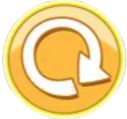
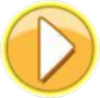
。。。

diff --git a/AngryToads/src/AngryToadsApplication/AngryToadsPanel.java b/AngryToads/src/AngryToadsApplication/AngryToadsPanel.java
@@ -28,9 +28,10 @@ class AngryToadsPanel extends JPanel {
     private ImageIcon pausebutton = new ImageIcon("src/AngryToadsImagePack/pause.png");
     private ImageIcon continueButton = new ImageIcon("src/AngryToadsImagePack/continue.png");
     private ImageIcon menuButton = new ImageIcon("src/AngryToadsImagePack/menu.png");
-    private ImageIcon restartbutton = new ImageIcon("src/AngryToadsImagePack/resume.png");
+    private ImageIcon restartbutton = new ImageIcon("src/AngryToadsImagePack/restart.png");
+    private ImageIcon restartClearButton = new ImageIcon("src/AngryToadsImagePack/restart-clear.png");
     private ImageIcon nextLevelButton = new ImageIcon("src/AngryToadsImagePack/nextLevel.png");
-    ImageIcon finger=new ImageIcon("src/AngryToadsImagePack/Finger.png");
+    ImageIcon finger = new ImageIcon("src/AngryToadsImagePack/Finger.png");
 
     private boolean dragflag = false, insidePause = false, insideRestart = false, insideMenu = false, insideResume = false;
     private boolean flag=false;
@@ -245,7 +246,7 @@ class AngryToadsPanel extends JPanel {
                     info = "继续游戏";
                 } else if (gameOver) {
                     if (hasWin) {
-                        info = "玩下一关";
+                        info = "下一关卡";
                     } else {
                         info = "重玩此关";
                     }
@@ -271,7 +272,7 @@ class AngryToadsPanel extends JPanel {
                 if (hasWin) {
                     dbg.drawImage(nextLevelButton.getImage(), resumeX, resumeY, resumeW, resumeH, null);
                 } else {
-                    dbg.drawImage(continueButton.getImage(), resumeX, resumeY, resumeW, resumeH, null);
+                    dbg.drawImage(restartClearButton.getImage(), resumeX, resumeY, resumeW, resumeH, null);
                 }
             }
         }
